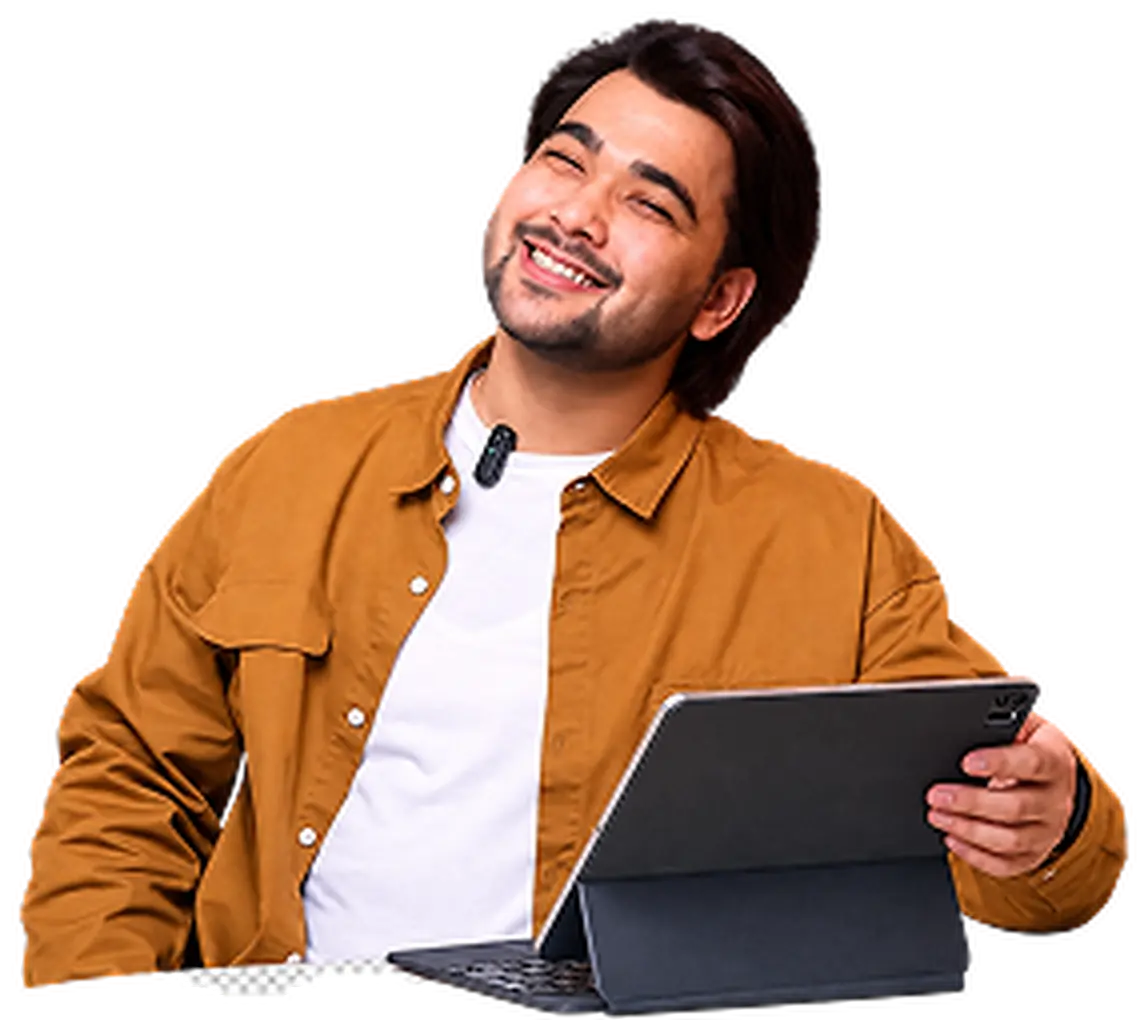
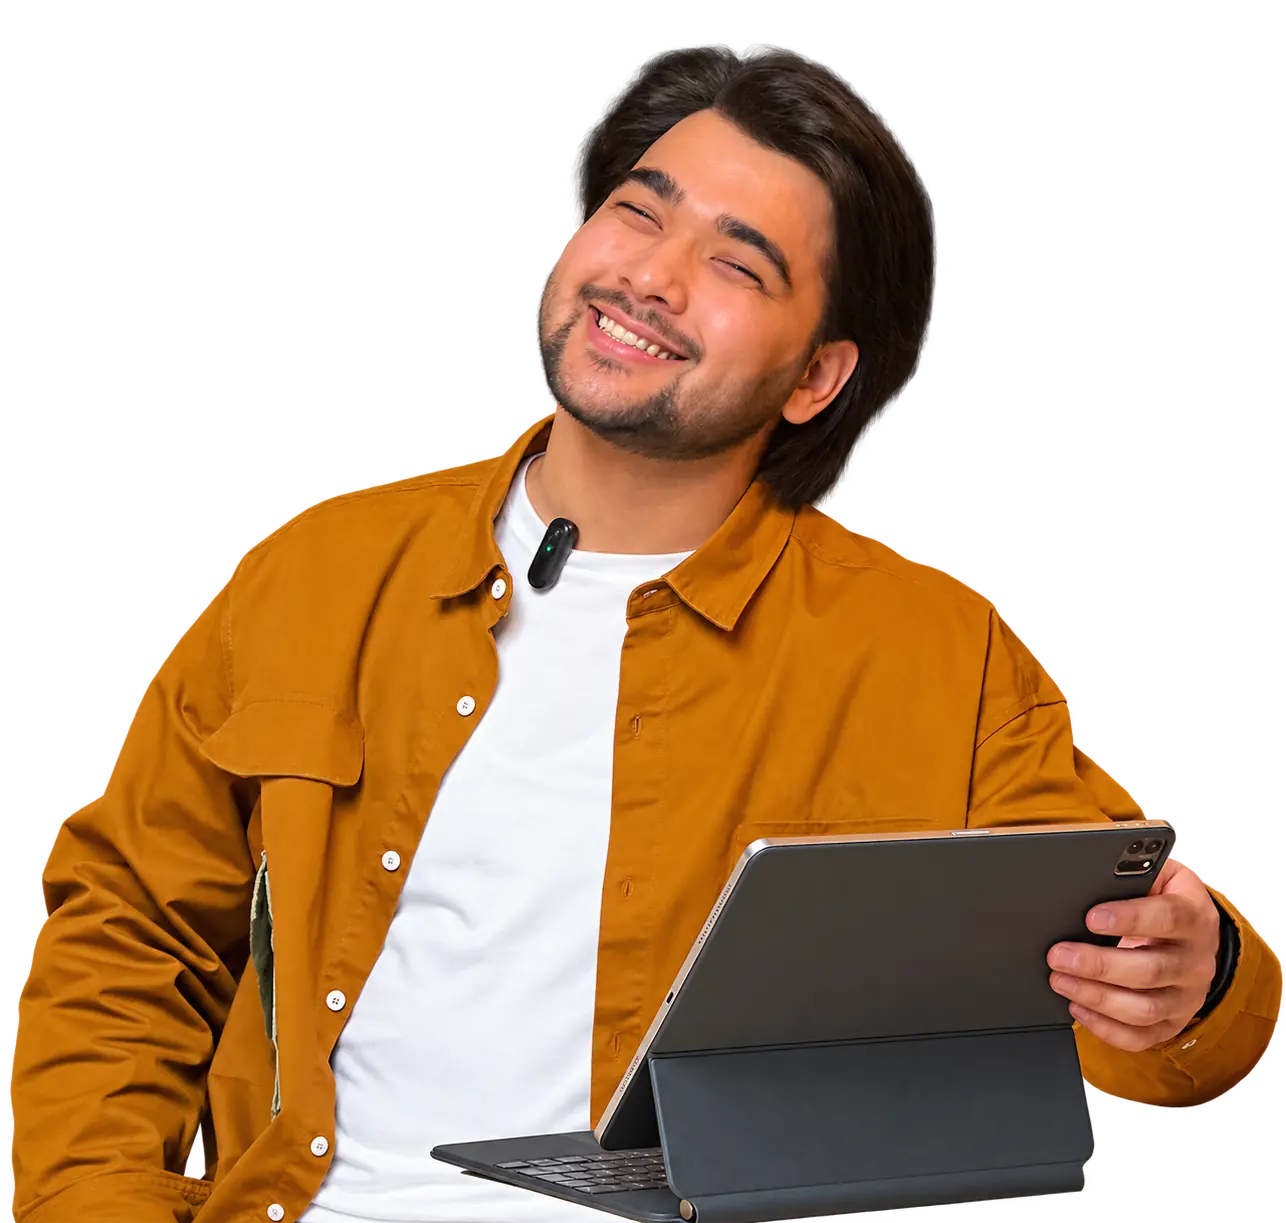
Add files via upload

diff --git a/index.html b/index.html
@@ -4,9 +4,21 @@
   <meta charset="utf-8"><meta name="viewport" content="width=device-width,initial-scale=1,viewport-fit=cover">
   <meta name="description" content="15 daqiqada IELTS Speakingdan yuqori ball olish texnikasi">
   <title>Vision School — IELTS Speaking</title>
-  <link rel="icon" type="image/jpeg" href="assets/vision-logo.jpg"><link rel="preload" as="image" href="assets/teacher.webp" fetchpriority="high"><link rel="stylesheet" href="assets/style.css?v=10">
+  <link rel="icon" type="image/jpeg" href="assets/vision-logo.jpg"><link rel="preload" as="image" href="assets/teacher.webp" fetchpriority="high"><link rel="stylesheet" href="assets/style.css?v=11">
++  <!-- Meta Pixel Code -->
+  <script>
+    !function(f,b,e,v,n,t,s){if(f.fbq)return;n=f.fbq=function(){n.callMethod?
+    n.callMethod.apply(n,arguments):n.queue.push(arguments)};if(!f._fbq)f._fbq=n;
+    n.push=n;n.loaded=!0;n.version='2.0';n.queue=[];t=b.createElement(e);t.async=!0;
+    t.src=v;s=b.getElementsByTagName(e)[0];s.parentNode.insertBefore(t,s)}
+    (window,document,'script','https://connect.facebook.net/en_US/fbevents.js');
+    fbq('init','1917109149121741');
+    fbq('track','PageView');
+  </script>
+  <!-- End Meta Pixel Code -->
 </head>
 <body>
+  <noscript><img height="1" width="1" style="display:none" src="https://www.facebook.com/tr?id=1917109149121741&amp;ev=PageView&amp;noscript=1" alt=""></noscript>
   <main class="page">
     <div class="brand" aria-label="Vision School"><img src="assets/vision-logo.jpg" alt=""><span>Vision School</span></div>
     <h1><span class="headline-accent">15 DAQIQADA</span> IELTS<br>SPEAKINGDAN <span class="headline-accent">YUQORI BALL</span><br>OLISH TEXNIKASINI O‘RGANING!</h1>
@@ -14,7 +26,7 @@
       <div class="ielts-icon icon-mic" aria-hidden="true"><svg viewBox="0 0 64 64"><rect x="23" y="8" width="18" height="31" rx="9"/><path d="M16 31a16 16 0 0 0 32 0M32 47v10M23 57h18"/></svg></div>
       <div class="ielts-icon icon-headphones" aria-hidden="true"><svg viewBox="0 0 64 64"><path d="M10 35V29a22 22 0 0 1 44 0v6"/><rect x="7" y="33" width="13" height="22" rx="5"/><rect x="44" y="33" width="13" height="22" rx="5"/></svg></div>
       <div class="ielts-icon icon-chat" aria-hidden="true"><svg viewBox="0 0 64 64"><path d="M9 12h46v34H29L17 56V46H9z"/><circle cx="22" cy="29" r="3"/><circle cx="32" cy="29" r="3"/><circle cx="42" cy="29" r="3"/></svg></div>
-      <img class="teacher" src="assets/teacher.webp" width="1144" height="1020" alt="Vision School o‘qituvchisi planshet bilan" fetchpriority="high" decoding="async">
+      <img class="teacher" src="assets/teacher.webp" width="1286" height="1223" alt="Vision School o‘qituvchisi planshet bilan" fetchpriority="high" decoding="async">
     </section>
     <button class="cta" type="button" id="openForm">DARSNI KO‘RISH</button>
     <p class="offer">IELTS Speaking’dan yuqori ball olishni istasangiz, ushbu videoni hoziroq ko‘ring!</p>

diff --git a/thank-you.html b/thank-you.html
@@ -6,9 +6,21 @@
   <meta name="robots" content="noindex">
   <title>Maxsus taklif — Vision School</title>
   <link rel="icon" type="image/jpeg" href="assets/vision-logo.jpg">
-  <link rel="stylesheet" href="assets/style.css?v=10">
+  <link rel="stylesheet" href="assets/style.css?v=11">
++  <!-- Meta Pixel Code -->
+  <script>
+    !function(f,b,e,v,n,t,s){if(f.fbq)return;n=f.fbq=function(){n.callMethod?
+    n.callMethod.apply(n,arguments):n.queue.push(arguments)};if(!f._fbq)f._fbq=n;
+    n.push=n;n.loaded=!0;n.version='2.0';n.queue=[];t=b.createElement(e);t.async=!0;
+    t.src=v;s=b.getElementsByTagName(e)[0];s.parentNode.insertBefore(t,s)}
+    (window,document,'script','https://connect.facebook.net/en_US/fbevents.js');
+    fbq('init','1917109149121741');
+    fbq('track','PageView');
+  </script>
+  <!-- End Meta Pixel Code -->
 </head>
 <body class="video-body">
+  <noscript><img height="1" width="1" style="display:none" src="https://www.facebook.com/tr?id=1917109149121741&amp;ev=PageView&amp;noscript=1" alt=""></noscript>
   <main class="video-page">
     <div class="brand video-brand" aria-label="Vision School"><img src="assets/vision-logo.jpg" alt=""><span>Vision School</span></div>
     <h1>Videoda berilgan maxsus taklifni qo‘lga kiritish uchun oxirigacha ko‘ring!</h1>

diff --git a/assets/style.css b/assets/style.css
@@ -9,7 +9,7 @@ body{margin:0;color:#050505;font-family:Arial,Helvetica,sans-serif}
 h1{margin:0;font-family:Impact,"Arial Narrow",sans-serif;font-size:clamp(27px,5.65vw,39px);font-weight:900;line-height:1.13;letter-spacing:0}
 .headline-accent{color:#08a990;text-shadow:0 1px 0 rgba(0,0,0,.08)}
 .visual{position:relative;height:475px;margin-top:18px}
-.teacher{position:absolute;z-index:2;left:50%;bottom:0;width:min(84%,520px);height:auto;transform:translateX(-50%)}
+.teacher{position:absolute;z-index:2;left:50%;bottom:0;width:min(82%,480px);height:auto;transform:translateX(-50%)}
 .ielts-icon{position:absolute;z-index:3;display:grid;place-items:center;width:66px;height:66px;border:2px solid #d8e4f1;border-radius:20px;background:#fff;box-shadow:0 10px 24px rgba(6,31,77,.12)}
 .ielts-icon svg{width:42px;height:42px;fill:none;stroke:#092d63;stroke-width:4;stroke-linecap:round;stroke-linejoin:round}
 .ielts-icon svg circle{fill:#17bda5;stroke:none}
